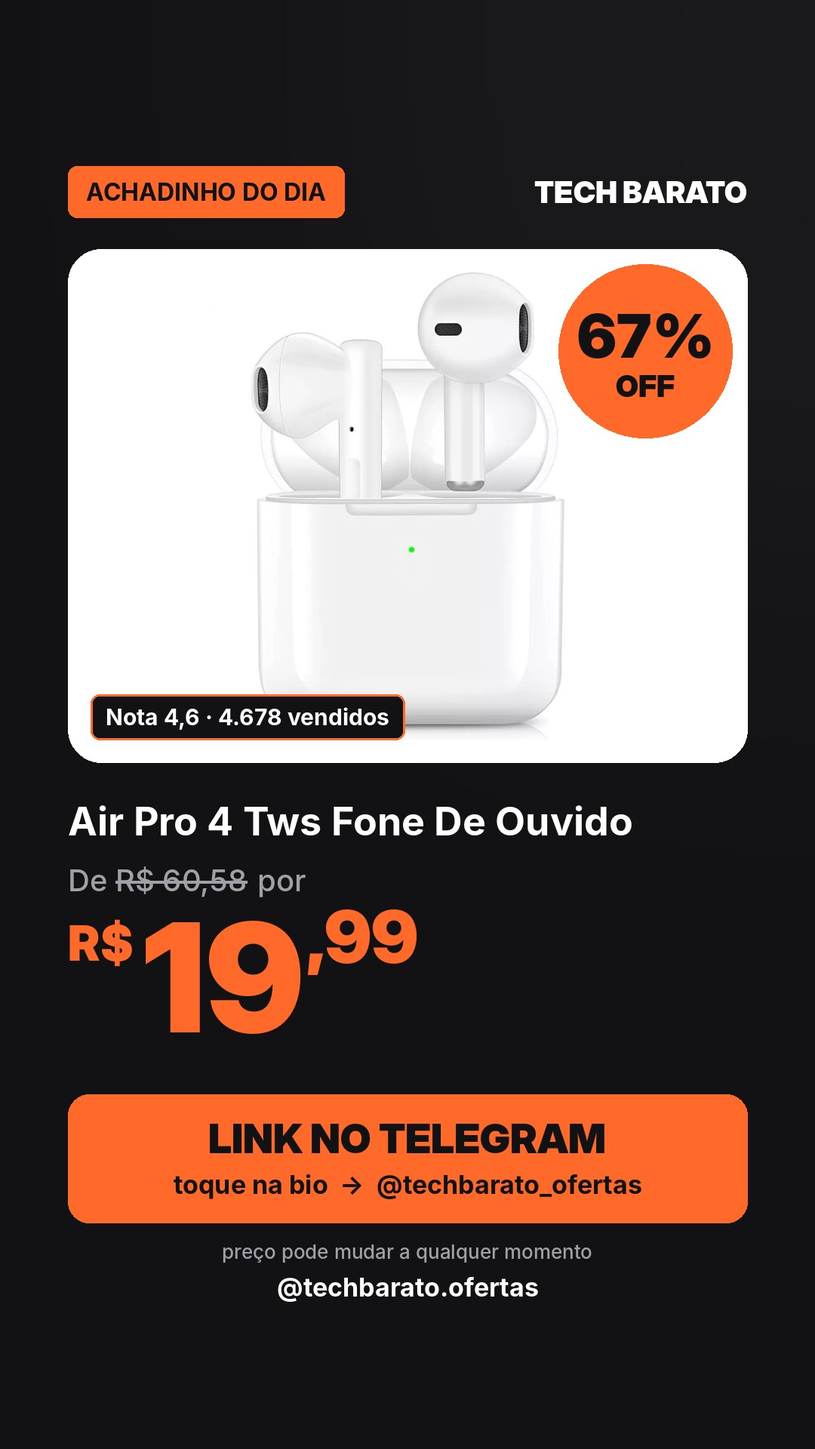
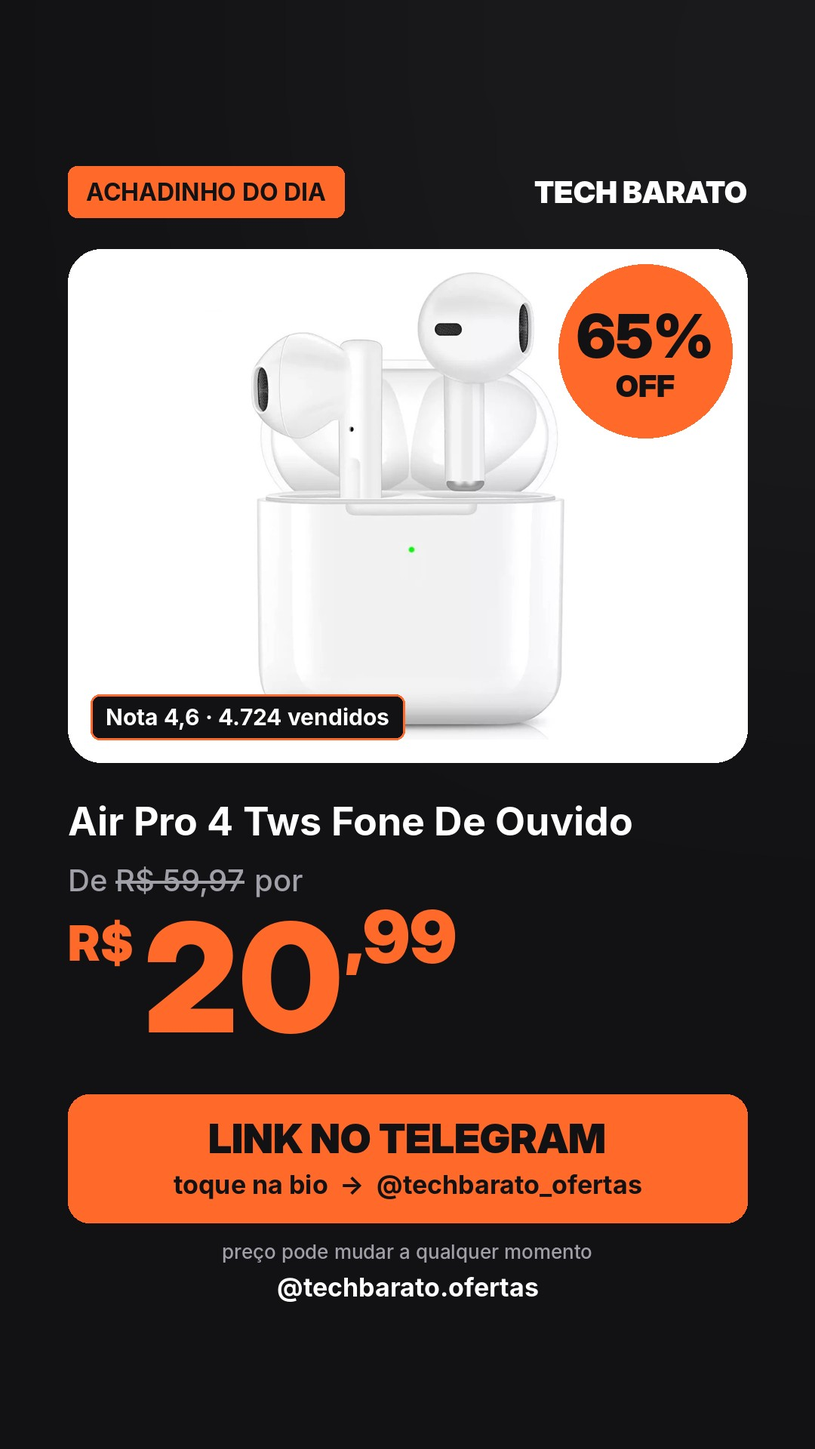
ofertas 2026-11-21_0047

Changed region(s): [[0.1833, 0.5938, 0.5806, 0.7188], [0.7028, 0.2188, 0.7944, 0.25], [0.3056, 0.4688, 0.3361, 0.5]]

diff --git a/docs/index.html b/docs/index.html
@@ -27,12 +27,12 @@ main{max-width:1100px;margin:auto;padding:8px 16px 40px;display:grid;grid-templa
 footer{text-align:center;color:var(--sub);font-size:12px;padding:0 16px 30px}
 </style></head><body>
 <header><h1>Tech Barato BR <span>●</span></h1>
-<p class="sub">Ofertas da Shopee escolhidas a dedo · atualizado em 20/11/2026 às 16:02</p>
+<p class="sub">Ofertas da Shopee escolhidas a dedo · atualizado em 20/11/2026 às 21:47</p>
 <a class="canal" href="https://t.me/techbarato_ofertas" target="_blank" rel="noopener">📢 Entrar no canal de ofertas</a><div class="filtros" id="f"></div></header>
 <main id="g"></main>
 <footer>Como afiliado da Shopee, posso receber comissão pelas compras feitas pelos links, sem custo extra para você. Preços e estoque podem mudar.</footer>
 <script>
-const D=[{"nome": "Relógio Smartwatch Original X9 Pro Série 45mm, GPS, NFC, Monitor de Pressão Arterial – São Paulo, Estoque Disponível", "preco": 69.77, "preco_original": 199.34, "desconto": 65, "imagem": "https://cf.shopee.com.br/file/sg-11134201-7rdw5-ly4sik99nn6wf4", "nota": 4.8, "vendas": 1171, "link": "https://s.shopee.com.br/4B1fr8o8be", "categoria": "smartwatch"}, {"nome": "Carregador Portátil Power Bank Turbo 20000mAh 22.5W Premium iPhone Samsung Xiaomi Com Indução", "preco": 79.99, "preco_original": 249.97, "desconto": 68, "imagem": "https://cf.shopee.com.br/file/br-11134207-820m0-mvqgs1eh60ardd", "nota": 4.9, "vendas": 1700, "link": "https://s.shopee.com.br/9pg2bYBNXZ", "categoria": "carregador turbo"}, {"nome": "HQAi H4 Tws Fones De Ouvido Bluetooth Sem Fio 5.3 Para Jogos Esportivos Com Redução De Ruído", "preco": 16.97, "preco_original": 54.74, "desconto": 69, "imagem": "https://cf.shopee.com.br/file/br-11134207-81ztc-mj51ligzptdtc0", "nota": 4.6, "vendas": 3465, "link": "https://s.shopee.com.br/2VtRs4PgVR", "categoria": "fone bluetooth"}, {"nome": "Novo Oxímetro de Pulso OLED de Dedo, Monitor Portátil de Saturação de Oxigênio, Presente de Natal.", "preco": 17.99, "preco_original": 59.97, "desconto": 70, "imagem": "https://cf.shopee.com.br/file/sg-11134201-8258k-mev8f7fai51i72", "nota": 4.8, "vendas": 170, "link": "https://s.shopee.com.br/906utLT5V8", "categoria": "monitor portatil"}, {"nome": "Fone Bluetooth OWS Sem Fio 5.3 Open Ear Confortável para Academia Caminhada e Uso Diário", "preco": 22.99, "preco_original": 99.96, "desconto": 77, "imagem": "https://cf.shopee.com.br/file/sg-11134201-824io-mpi4ekalszkbc1", "nota": 4.5, "vendas": 3661, "link": "https://s.shopee.com.br/9AQL5eAViF", "categoria": "fone bluetooth"}, {"nome": "Carregador Turbo 50W Carregador Rápido Super Rápido Acompanha cabo USB C", "preco": 18.88, "preco_original": 145.23, "desconto": 87, "imagem": "https://cf.shopee.com.br/file/br-11134207-7r98o-lzox24bojuwxc5", "nota": 4.8, "vendas": 2311, "link": "https://s.shopee.com.br/AKcITmosmw", "categoria": "carregador turbo"}, {"nome": "Relogio Smartwatch Feminino Masculino  Series 10 Para Android ios Faz Recebe Chamada", "preco": 45.99, "preco_original": 199.96, "desconto": 77, "imagem": "https://cf.shopee.com.br/file/br-11134207-81ztc-mk9cs8cko8ap5e", "nota": 4.8, "vendas": 1346, "link": "https://s.shopee.com.br/70Lq6bQXse", "categoria": "smartwatch"}, {"nome": "Fone de Ouvido Sem Fio  PRO5 airpods Com Cancelamento De Ruído Bluetooth Pop-Up para iOS e Android", "preco": 42.98, "preco_original": 238.78, "desconto": 82, "imagem": "https://cf.shopee.com.br/file/br-11134207-7r98o-m712dqkqe0xc50", "nota": 4.7, "vendas": 5852, "link": "https://s.shopee.com.br/4LL4vhJ6B8", "categoria": "fone bluetooth"}, {"nome": "Carregador Para iPhone Fonte + Cabo 20w PD Turbo Rapido Tipo C Lightning", "preco": 9.49, "preco_original": 86.27, "desconto": 89, "imagem": "https://cf.shopee.com.br/file/br-11134207-7r98o-lsvdp1mfzd44da", "nota": 4.8, "vendas": 2907, "link": "https://s.shopee.com.br/8fU45ekvzN", "categoria": "carregador turbo"}, {"nome": "Teclado Mecânico Recarregável Interruptores Testador Chaveiros Alto-Falante Amostra Sapo", "preco": 19.4, "preco_original": 57.06, "desconto": 66, "imagem": "https://cf.shopee.com.br/file/br-11134207-81ztc-mj3vpmp8hc76ae", "nota": 4.9, "vendas": 257, "link": "https://s.shopee.com.br/60TITEbw1D", "categoria": "teclado mecanico"}, {"nome": "Mouse Gamer Wireless com Conexão 2.4GHz Estável", "preco": 19.88, "preco_original": 60.24, "desconto": 67, "imagem": "https://cf.shopee.com.br/file/br-11134207-81ztc-mkb1itv9v5s1c9", "nota": 4.8, "vendas": 538, "link": "https://s.shopee.com.br/5q9sGvKYey", "categoria": "mouse gamer"}, {"nome": "Fone De Ouvido NOVO Ruído Cancelando Earbuds Bluetooth Sem Fio HiFi Stereo Com Carregamento De Visor Digital", "preco": 19.99, "preco_original": 60.58, "desconto": 67, "imagem": "https://cf.shopee.com.br/file/sg-11134201-8224o-mhjfql4zsydg80", "nota": 4.6, "vendas": 5281, "link": "https://s.shopee.com.br/1gKJJGNZ3M", "categoria": "fone bluetooth"}, {"nome": "Mouse Gamer Wireless com Conexão 2.4GHz Estável", "preco": 19.88, "preco_original": 60.24, "desconto": 67, "imagem": "https://cf.shopee.com.br/file/br-11134207-81ztc-mkb1itv9v5s1c9", "nota": 4.8, "vendas": 1255, "link": "https://s.shopee.com.br/9zzQVYB4Q4", "categoria": "mouse gamer"}, {"nome": "T900 Ultra Smartwatch Relógio Inteligente Prova Bluetooth Monitoramento De Saúde Exercício Contagem NFC", "preco": 49.8, "preco_original": 150.91, "desconto": 67, "imagem": "https://cf.shopee.com.br/file/br-11134207-81z1k-mfffhm1n60p1be", "nota": 4.7, "vendas": 1465, "link": "https://s.shopee.com.br/9KjjiJvwNN", "categoria": "smartwatch"}, {"nome": "Fone de Ouvido entrada lightning para Iphone Microfone Bluetooth", "preco": 9.99, "preco_original": 30.27, "desconto": 67, "imagem": "https://cf.shopee.com.br/file/sg-11134201-7rbkc-lpcgfnwj651k1e", "nota": 4.7, "vendas": 6917, "link": "https://s.shopee.com.br/9KjjiJePVN", "categoria": "fone bluetooth"}, {"nome": "Headset Gamer TGT Diver V2, Rainbow, Drivers 40mm, Preto, TGT-DVR-RGB02", "preco": 55.9, "preco_original": 174.69, "desconto": 68, "imagem": "https://cf.shopee.com.br/file/br-11134207-81z1k-mf1f34sgcnwkd3", "nota": 4.9, "vendas": 1215, "link": "https://s.shopee.com.br/2gCpMtRBsu", "categoria": "headset gamer"}, {"nome": "Smartwatch D20 relógio Colocar foto com tela hd y68 bluetooth com lembrete chamada monitor de frequência", "preco": 21.98, "preco_original": 70.9, "desconto": 69, "imagem": "https://cf.shopee.com.br/file/sg-11134201-7rbk0-lqqgjmiq5mao68", "nota": 4.5, "vendas": 1266, "link": "https://s.shopee.com.br/9pfzu3iAhW", "categoria": "smartwatch"}, {"nome": "Teclado Gamer/ Escritório Com Fio RGB LED Iluminado  Com 68 Teclados Mecânicos", "preco": 88.88, "preco_original": 296.27, "desconto": 70, "imagem": "https://cf.shopee.com.br/file/br-11134207-7r98o-mcmbazbekcn5d9", "nota": 4.8, "vendas": 357, "link": "https://s.shopee.com.br/5fqQwOgVHz", "categoria": "teclado mecanico"}, {"nome": "Case HD Externo USB 3.0 para HD/SSD 2.5 Gaveta Externa Transparente com Cabo USB Alta Velocidade Compatível Notebook PC", "preco": 21.45, "preco_original": 69.19, "desconto": 69, "imagem": "https://cf.shopee.com.br/file/sg-11134201-8258b-mqnq7bykcyz2f2", "nota": 4.9, "vendas": 649, "link": "https://s.shopee.com.br/9AQIdecIWt", "categoria": "ssd"}, {"nome": "Teclado Gamer/ Escritório Com Fio RGB LED Iluminado  Com 68 Teclados Mecânicos", "preco": 88.88, "preco_original": 296.27, "desconto": 70, "imagem": "https://cf.shopee.com.br/file/br-11134207-7r98o-mcmbtqmuebcx87", "nota": 4.8, "vendas": 502, "link": "https://s.shopee.com.br/906sRLLKlZ", "categoria": "teclado mecanico"}, {"nome": "2026 T800 Ultra 3 MAX Mais Recente Smartwatch Relógio Inteligente NFC Série 10 2.19Polegadas Sem Fio", "preco": 39.8, "preco_original": 147.41, "desconto": 73, "imagem": "https://cf.shopee.com.br/file/br-11134207-81z1k-mhq4f2lhz40397", "nota": 4.7, "vendas": 1755, "link": "https://s.shopee.com.br/8pnSF28ljd", "categoria": "smartwatch"}, {"nome": "Arzopa Z1C Cinza-Monitor Portátil Com Suporte 100 % sRGB De 16.1 \" , 1080P FHD Tela De Extensão De USB C HDMI Para PC", "preco": 528.99, "preco_original": 1763.3, "desconto": 70, "imagem": "https://cf.shopee.com.br/file/cn-11134207-820l4-mvb9zjv0cyyqec", "nota": 5.0, "vendas": 270, "link": "https://s.shopee.com.br/30peYyMXsT", "categoria": "monitor portatil"}, {"nome": "Macaron Teclado Fidget Chaveiro ASMR Clicky Interruptor Mecânico Brinquedo Alívio Do Estresse Pingente Presente", "preco": 8.8, "preco_original": 30.34, "desconto": 71, "imagem": "https://cf.shopee.com.br/file/sg-11134201-8262a-mlx5pxmaeio4eb", "nota": 4.9, "vendas": 476, "link": "https://s.shopee.com.br/7fbU7XrEkT", "categoria": "teclado mecanico"}, {"nome": "1200Mbps Repetidor Wifi Sem Fio 2.4G Amplificador De Sinal Extensor Roteador Booster Network", "preco": 49.97, "preco_original": 199.88, "desconto": 75, "imagem": "https://cf.shopee.com.br/file/br-11134207-820mf-mnkugr2ku5ms16", "nota": 4.7, "vendas": 289, "link": "https://s.shopee.com.br/70LnKJcWHZ", "categoria": "roteador wifi"}, {"nome": "Fone De Ouvido Sem Fio M10 TWS Bluetooth 5.3 display Led Touch", "preco": 18.99, "preco_original": 70.33, "desconto": 73, "imagem": "https://cf.shopee.com.br/file/sg-11134201-8258z-mr0fi8bhfthid6", "nota": 4.8, "vendas": 8349, "link": "https://s.shopee.com.br/3VlunBYgzJ", "categoria": "fone bluetooth"}, {"nome": "KIT Teclado 100% mecânico Punk Esports + mouse para jogos Um item obrigatório para os jogadores -H7", "preco": 52.49, "preco_original": 201.88, "desconto": 74, "imagem": "https://cf.shopee.com.br/file/br-11134207-820m5-mu8ogr0lpfk218", "nota": 4.8, "vendas": 214, "link": "https://s.shopee.com.br/1LhQDCTk0I", "categoria": "teclado mecanico"}, {"nome": "Carregador rápido de 120W com 6A USB C cabo 1M para Mi Turbo Charge Turbo Power Cabo USB + Cabo Tipo C", "preco": 15.89, "preco_original": 61.12, "desconto": 74, "imagem": "https://cf.shopee.com.br/file/sg-11134201-823qk-moi4apd18efh61", "nota": 4.6, "vendas": 3532, "link": "https://s.shopee.com.br/W8JDfBKNI", "categoria": "carregador turbo"}, {"nome": "Câmera Segurança Lâmpada Wifi Full HD Sem Fio 360 Icsee/Yoosee Visão Noturna 8177 EKS", "preco": 58.99, "preco_original": null, "desconto": 0, "imagem": "https://cf.shopee.com.br/file/sg-11134201-8227r-mhhsrii405j733", "nota": 4.9, "vendas": 4406, "link": "https://s.shopee.com.br/3VluJvtBBx", "categoria": "camera wifi"}, {"nome": "Kit Carregador 67W Turbo + Cabo Tipo-C Carga Rápida Universal Xiaomi Redmi Note E Poco X7 Android", "preco": 29.51, "preco_original": null, "desconto": 0, "imagem": "https://cf.shopee.com.br/file/sg-11134201-8258n-mr8vmek85csha1", "nota": 4.5, "vendas": 9310, "link": "https://s.shopee.com.br/2BGWjTgaWK", "categoria": "carregador turbo"}, {"nome": "Senbenbao X55 Fones De Ouvido TWS Sono Sem Fio Bluetooth Display Led Alta Fidelidade Estéreo Cancelamento Ruído À Prova", "preco": 19.29, "preco_original": null, "desconto": 0, "imagem": "https://cf.shopee.com.br/file/sg-11134201-823ob-mp7wv1fcnx8rc4", "nota": 4.8, "vendas": 19272, "link": "https://s.shopee.com.br/20x6XAPYUt", "categoria": "fone bluetooth"}, {"nome": "Teclado Mecânico Gamer Compacto 60% 63 Teclas Switch Blue Rainbow RGB Anti-Ghosting USB", "preco": 99.88, "preco_original": 369.93, "desconto": 73, "imagem": "https://cf.shopee.com.br/file/br-11134207-820lv-mr1pu215296u72", "nota": 4.9, "vendas": 306, "link": "https://s.shopee.com.br/1W0pDmATzl", "categoria": "teclado mecanico"}, {"nome": "HUAWEI WiFi AX2S | Roteador | WS7000 V2 |  Dual Band | 4 Antenas | 5 GHz Wi-Fi 6", "preco": 129.0, "preco_original": 496.15, "desconto": 74, "imagem": "https://cf.shopee.com.br/file/br-11134207-81z1k-me9rity3qqkg1d", "nota": 5.0, "vendas": 1856, "link": "https://s.shopee.com.br/9fMWwmNNjs", "categoria": "roteador wifi"}, {"nome": "Mouse Gamer Jogos Laser 3600dpi Usb Com Fio Led 7 Botões Iluminado", "preco": 16.88, "preco_original": 99.29, "desconto": 83, "imagem": "https://cf.shopee.com.br/file/br-11134207-7r98o-lwoh850dygu797", "nota": 4.8, "vendas": 596, "link": "https://s.shopee.com.br/9AQGLr8AS2", "categoria": "mouse gamer"}, {"nome": "Medidor de SpO2 Portátil para Dedo com Tela LED, Alta Precisão para Monitoramento de Saúde em Casa e Viagem", "preco": 18.89, "preco_original": 42.93, "desconto": 56, "imagem": "https://cf.shopee.com.br/file/sg-11134201-823qv-mooxmpkz30gb81", "nota": 4.7, "vendas": 81, "link": "https://s.shopee.com.br/9V36OON8Xa", "categoria": "monitor portatil"}, {"nome": "Fone Headset Gamer RGB PRO Iluminação LED, Microfone Ajustável, Ideal para Jogos Online", "preco": 79.98, "preco_original": 186.0, "desconto": 57, "imagem": "https://cf.shopee.com.br/file/br-11134207-81z1k-mfczkewm85j991", "nota": 4.9, "vendas": 531, "link": "https://s.shopee.com.br/5Au7EQLtgK", "categoria": "headset gamer"}, {"nome": "Bluetooth Sem fio Fone de ouvido Ergonômico TWS Suporte Orelha Pendurada Anti-queda", "preco": 24.3, "preco_original": 81.0, "desconto": 70, "imagem": "https://cf.shopee.com.br/file/sg-11134201-7rdx3-mch5g12mgnkkac", "nota": 4.7, "vendas": 3047, "link": "https://s.shopee.com.br/50ah27509J", "categoria": "fone bluetooth"}, {"nome": "Smartwatch D20 - Relógio Inteligente y68 Esportivo Bluetooth Android/iOS - Com foto Na Tela", "preco": 19.99, "preco_original": null, "desconto": 0, "imagem": "https://cf.shopee.com.br/file/sg-11134201-7rffv-m43cb4hjqxjrce", "nota": 4.6, "vendas": 4726, "link": "https://s.shopee.com.br/5LDWzOAnYT", "categoria": "smartwatch"}, {"nome": "Carregador iPhone Turbo Tipo-C 20W + Cabo Lightining para IPhone Carga rápida", "preco": 15.99, "preco_original": 49.97, "desconto": 68, "imagem": "https://cf.shopee.com.br/file/sg-11134201-7rbkw-lpcg9rytbas79a", "nota": 4.8, "vendas": 10578, "link": "https://s.shopee.com.br/6q2Km8rXqG", "categoria": "carregador turbo"}, {"nome": "Fone de Ouvido Sem Fio Bluetooth com Condução Óssea/Compacto e Leve/Resistente a Água/Tipo-C", "preco": 31.9, "preco_original": 110.0, "desconto": 71, "imagem": "https://cf.shopee.com.br/file/br-11134211-820ln-mseaww44b5dz4b", "nota": 4.6, "vendas": 3367, "link": "https://s.shopee.com.br/8VAYlCU0uN", "categoria": "fone bluetooth"}, {"nome": "Câmera Vigilância WiFi 4MP Dupla Lente Detecção Inteligente Áudio 2 Vias", "preco": 125.39, "preco_original": 298.55, "desconto": 58, "imagem": "https://cf.shopee.com.br/file/sg-11134201-822zw-mi0cmfoz1p1k70", "nota": 4.9, "vendas": 1412, "link": "https://s.shopee.com.br/7pur5nBt47", "categoria": "camera wifi"}, {"nome": "50M 1080P Sem Fio HDMI Extensor Transmissor De Vídeo Receptor 1TX A 1RX Display Para PS4 Câmera Portátil PC TV Monitor P", "preco": 186.99, "preco_original": 519.42, "desconto": 64, "imagem": "https://cf.shopee.com.br/file/sg-11134201-825ah-mqh2txikvpqme5", "nota": 4.9, "vendas": 163, "link": "https://s.shopee.com.br/6L63J20Tob", "categoria": "monitor portatil"}, {"nome": "Fone De Ouvido Inpods 13 Bluetooth Sem Fio Com Microfone Fones esportivos Adequado Branco", "preco": 19.98, "preco_original": 68.9, "desconto": 71, "imagem": "https://cf.shopee.com.br/file/sg-11134201-825bb-mt7fxycgurra13", "nota": 4.7, "vendas": 7637, "link": "https://s.shopee.com.br/9pfvTSZTW4", "categoria": "fone bluetooth"}, {"nome": "JL PROTEC 4K 8MP Câmera de Segurança 2 Lentes Com Audio e Microfone Câmera 355 Graus Wifi", "preco": 176.88, "preco_original": 402.0, "desconto": 56, "imagem": "https://cf.shopee.com.br/file/br-11134201-81ztc-mj6htjflukg333", "nota": 4.9, "vendas": 1524, "link": "https://s.shopee.com.br/2VtKBa19JA", "categoria": "camera wifi"}, {"nome": "Suporte Gamer Porta Controle Videogame Para Ps4 Xbox Ps5 Fone de Ouvido Headset", "preco": 9.89, "preco_original": 24.73, "desconto": 60, "imagem": "https://cf.shopee.com.br/file/br-11134207-820ll-mlveq5qwu39je0", "nota": 4.5, "vendas": 959, "link": "https://s.shopee.com.br/3LSRB6gNUx", "categoria": "headset gamer"}, {"nome": "Fone De Ouvido Bluetooth Orelha Gatinho Infantil Led Sem Fio", "preco": 27.5, "preco_original": 98.21, "desconto": 72, "imagem": "https://cf.shopee.com.br/file/sg-11134201-820nh-mnq01ce18zr689", "nota": 4.9, "vendas": 5819, "link": "https://s.shopee.com.br/W8Fntdxsf", "categoria": "fone bluetooth"}, {"nome": "Smartwatch 7 Em 1 Alças 49mm Full Touch Screen Sport", "preco": 59.0, "preco_original": 203.45, "desconto": 71, "imagem": "https://cf.shopee.com.br/file/sg-11134201-825zv-ml16vfpvksg5ae", "nota": 4.8, "vendas": 1126, "link": "https://s.shopee.com.br/20x3Czjwhw", "categoria": "smartwatch"}, {"nome": "Mini Teclado Mecânico Anti-Ansiedade em Chaveiro com 4 Teclas Clicáveis – Som Tátil Relaxante", "preco": 11.99, "preco_original": 44.41, "desconto": 73, "imagem": "https://cf.shopee.com.br/file/br-11134207-820m0-mpz8z4g03vuo16", "nota": 4.8, "vendas": 324, "link": "https://s.shopee.com.br/906nXr1hKm", "categoria": "teclado mecanico"}, {"nome": "Fones de Ouvido Bluetooth 5.4 X55 com Visor LED, Hi-Fi Estéreo, Cancelamento de Ruído, Design à Prova d’Água para Graves", "preco": 23.98, "preco_original": 88.81, "desconto": 73, "imagem": "https://cf.shopee.com.br/file/sg-11134201-825a9-mu36trol6akg59", "nota": 4.7, "vendas": 3069, "link": "https://s.shopee.com.br/40i7af7bOE", "categoria": "fone bluetooth"}, {"nome": "Case Gaveta HD SSD 2.5 Sata III USB 3.0 Transparente Externo 6Gbps PC Notebook PS4 Kit 2  su", "preco": 30.99, "preco_original": 99.97, "desconto": 69, "imagem": "https://cf.shopee.com.br/file/sg-11134201-822x7-mhwbric3x4hw69", "nota": 4.9, "vendas": 376, "link": "https://s.shopee.com.br/8Kr65RWREx", "categoria": "ssd"}, {"nome": "Teclado Gamer Semi-mecânico Rgb Anti-ghosting", "preco": 38.88, "preco_original": 149.54, "desconto": 74, "imagem": "https://cf.shopee.com.br/file/br-11134207-7r98o-mcw6gui5vk1e01", "nota": 4.8, "vendas": 962, "link": "https://s.shopee.com.br/8AXft8FxIb", "categoria": "teclado mecanico"}, {"nome": "Fone Pro Sem Fio Som HiFi 8D Pop-Up Automático Toque Inteligente Bateria 5–7h Bluetooth Universal", "preco": 17.99, "preco_original": 69.19, "desconto": 74, "imagem": "https://cf.shopee.com.br/file/sg-11134201-8261z-ml25b72c1ds21d", "nota": 4.8, "vendas": 6974, "link": "https://s.shopee.com.br/gRexLQlr7", "categoria": "fone bluetooth"}, {"nome": "15,6\" portátil Monitor de FHD 1920*1080P IPS 300Nits HDR para jogos compatível com PC/PS3/4/5/Switch/Xbox/Laptop/Celular", "preco": 382.35, "preco_original": 1006.18, "desconto": 62, "imagem": "https://cf.shopee.com.br/file/br-11134207-820lj-mt9fzhlxl2bm30", "nota": 4.8, "vendas": 158, "link": "https://s.shopee.com.br/8AXfXqlb8X", "categoria": "monitor portatil"}, {"nome": "Smartwatch MINI 38MM PRO Com monitor De Frequência Cardíaca Do Computador São Paulo pronta entrega", "preco": 53.99, "preco_original": 199.96, "desconto": 73, "imagem": "https://cf.shopee.com.br/file/br-11134207-81z1k-mg4sqr0e5nggcd", "nota": 4.8, "vendas": 1671, "link": "https://s.shopee.com.br/7fbOwvVplX", "categoria": "smartwatch"}, {"nome": "Headset Gamer Camuflado Com Fio Estéreo Microfone USB P2 50mm Para PC PS4 Xbox-Onistek", "preco": 74.99, "preco_original": 288.42, "desconto": 74, "imagem": "https://cf.shopee.com.br/file/br-11134207-820m3-mrvxqm20m9z828", "nota": 4.9, "vendas": 667, "link": "https://s.shopee.com.br/3LSPmxUfAm", "categoria": "headset gamer"}, {"nome": "Câmera Externa Ip a Prova D'água 4mp wifi ptz com Infravermelho lente dupla Bivolt 110/220V WiFi 360 -G1", "preco": 129.99, "preco_original": 406.22, "desconto": 68, "imagem": "https://cf.shopee.com.br/file/br-11134207-820lk-mtev0n6q7k75f5", "nota": 4.9, "vendas": 302, "link": "https://s.shopee.com.br/Lonrjvy7L", "categoria": "camera wifi"}, {"nome": "Headset Gamer 7.1 Surround Rgb Delta-f7140 Com Microfone Para Pc E Console", "preco": 54.78, "preco_original": 210.69, "desconto": 74, "imagem": "https://cf.shopee.com.br/file/br-11134207-820lk-moa3sgm6molj9c", "nota": 4.9, "vendas": 745, "link": "https://s.shopee.com.br/9KjcaHAREa", "categoria": "headset gamer"}, {"nome": "Fone de Ouvido Sem Fio Airpods PRO 3 Com Cancelamento De Ruído Bluetooth Pop-Up para iOS e Android", "preco": 42.98, "preco_original": 171.92, "desconto": 75, "imagem": "https://cf.shopee.com.br/file/sg-11134201-7rd3v-m70zchxbcirf93", "nota": 4.7, "vendas": 5183, "link": "https://s.shopee.com.br/7KyYCb0WPt", "categoria": "fone bluetooth"}, {"nome": "Cabo Carregador USB Typo C 1 Metro Para Android Galaxy Xiomi Moto G Carregamento Turbo Reforçado", "preco": 10.0, "preco_original": 25.0, "desconto": 60, "imagem": "https://cf.shopee.com.br/file/br-11134201-820lh-mqy2kshjlo1x20", "nota": 4.8, "vendas": 1991, "link": "https://s.shopee.com.br/AAIjI8w0MM", "categoria": "carregador turbo"}, {"nome": "Repetidor Wifi 1200m 6/4 Antenas 3 in 1 functios 2.4g Roteador Amplificador De Sinal e Modem 300MBPS", "preco": 46.98, "preco_original": 120.46, "desconto": 61, "imagem": "https://cf.shopee.com.br/file/br-11134207-820m2-mtz23drmeh3613", "nota": 4.8, "vendas": 774, "link": "https://s.shopee.com.br/9V32UuhM9e", "categoria": "roteador wifi"}, {"nome": "Case Gaveta HD SSD 2.5 Sata III USB 3.0 Transparente Externo 6Gbps PC Notebook PS4 Kit 2  jehnny", "preco": 30.99, "preco_original": 99.97, "desconto": 69, "imagem": "https://cf.shopee.com.br/file/sg-11134201-822x9-mhwbs2tvuo0443", "nota": 4.9, "vendas": 657, "link": "https://s.shopee.com.br/9AQC6IQxU7", "categoria": "ssd"}];
+const D=[{"nome": "Carregador Turbo 20w Compatível iPhone + Cabo Lightning", "preco": 26.9, "preco_original": null, "desconto": 0, "imagem": "https://cf.shopee.com.br/file/br-11134201-820lw-mqx4vub9getg4c", "nota": 4.8, "vendas": 6016, "link": "https://s.shopee.com.br/906vziWiGu", "categoria": "carregador turbo"}, {"nome": "Mouse Gamer 1200dpi Com Fio Usb Led Rgb Profissional Para Jogos Pc", "preco": 13.9, "preco_original": 39.71, "desconto": 65, "imagem": "https://cf.shopee.com.br/file/br-11134207-820lu-mt3zx01j79qff3", "nota": 4.9, "vendas": 1069, "link": "https://s.shopee.com.br/6AmkcVTt5r", "categoria": "mouse gamer"}, {"nome": "Air Pro 4 Tws Fone De Ouvido Sem Fio Bluetooth 5.1Mini Fones Esportivos Para Android / Ios iphone", "preco": 20.99, "preco_original": 59.97, "desconto": 65, "imagem": "https://cf.shopee.com.br/file/sg-11134201-7rd3v-lwp2d1s7sky0f0", "nota": 4.6, "vendas": 4724, "link": "https://s.shopee.com.br/1gKLGETpfM", "categoria": "fone bluetooth"}, {"nome": "Relógio Smartwatch Original X9 Pro Série 45mm, GPS, NFC, Monitor de Pressão Arterial – São Paulo, Estoque Disponível", "preco": 69.77, "preco_original": 199.34, "desconto": 65, "imagem": "https://cf.shopee.com.br/file/sg-11134201-7rdw5-ly4sik99nn6wf4", "nota": 4.8, "vendas": 1171, "link": "https://s.shopee.com.br/4B1fr8o8be", "categoria": "smartwatch"}, {"nome": "Carregador Portátil Power Bank Turbo 20000mAh 22.5W Premium iPhone Samsung Xiaomi Com Indução", "preco": 79.99, "preco_original": 249.97, "desconto": 68, "imagem": "https://cf.shopee.com.br/file/br-11134207-820m0-mvqgs1eh60ardd", "nota": 4.9, "vendas": 1700, "link": "https://s.shopee.com.br/9pg2bYBNXZ", "categoria": "carregador turbo"}, {"nome": "HQAi H4 Tws Fones De Ouvido Bluetooth Sem Fio 5.3 Para Jogos Esportivos Com Redução De Ruído", "preco": 16.97, "preco_original": 54.74, "desconto": 69, "imagem": "https://cf.shopee.com.br/file/br-11134207-81ztc-mj51ligzptdtc0", "nota": 4.6, "vendas": 3465, "link": "https://s.shopee.com.br/2VtRs4PgVR", "categoria": "fone bluetooth"}, {"nome": "Novo Oxímetro de Pulso OLED de Dedo, Monitor Portátil de Saturação de Oxigênio, Presente de Natal.", "preco": 17.99, "preco_original": 59.97, "desconto": 70, "imagem": "https://cf.shopee.com.br/file/sg-11134201-8258k-mev8f7fai51i72", "nota": 4.8, "vendas": 170, "link": "https://s.shopee.com.br/906utLT5V8", "categoria": "monitor portatil"}, {"nome": "Fone Bluetooth OWS Sem Fio 5.3 Open Ear Confortável para Academia Caminhada e Uso Diário", "preco": 22.99, "preco_original": 99.96, "desconto": 77, "imagem": "https://cf.shopee.com.br/file/sg-11134201-824io-mpi4ekalszkbc1", "nota": 4.5, "vendas": 3661, "link": "https://s.shopee.com.br/9AQL5eAViF", "categoria": "fone bluetooth"}, {"nome": "Carregador Turbo 50W Carregador Rápido Super Rápido Acompanha cabo USB C", "preco": 18.88, "preco_original": 145.23, "desconto": 87, "imagem": "https://cf.shopee.com.br/file/br-11134207-7r98o-lzox24bojuwxc5", "nota": 4.8, "vendas": 2311, "link": "https://s.shopee.com.br/AKcITmosmw", "categoria": "carregador turbo"}, {"nome": "Relogio Smartwatch Feminino Masculino  Series 10 Para Android ios Faz Recebe Chamada", "preco": 45.99, "preco_original": 199.96, "desconto": 77, "imagem": "https://cf.shopee.com.br/file/br-11134207-81ztc-mk9cs8cko8ap5e", "nota": 4.8, "vendas": 1346, "link": "https://s.shopee.com.br/70Lq6bQXse", "categoria": "smartwatch"}, {"nome": "Fone de Ouvido Sem Fio  PRO5 airpods Com Cancelamento De Ruído Bluetooth Pop-Up para iOS e Android", "preco": 42.98, "preco_original": 238.78, "desconto": 82, "imagem": "https://cf.shopee.com.br/file/br-11134207-7r98o-m712dqkqe0xc50", "nota": 4.7, "vendas": 5852, "link": "https://s.shopee.com.br/4LL4vhJ6B8", "categoria": "fone bluetooth"}, {"nome": "Carregador Para iPhone Fonte + Cabo 20w PD Turbo Rapido Tipo C Lightning", "preco": 9.49, "preco_original": 86.27, "desconto": 89, "imagem": "https://cf.shopee.com.br/file/br-11134207-7r98o-lsvdp1mfzd44da", "nota": 4.8, "vendas": 2907, "link": "https://s.shopee.com.br/8fU45ekvzN", "categoria": "carregador turbo"}, {"nome": "Teclado Mecânico Recarregável Interruptores Testador Chaveiros Alto-Falante Amostra Sapo", "preco": 19.4, "preco_original": 57.06, "desconto": 66, "imagem": "https://cf.shopee.com.br/file/br-11134207-81ztc-mj3vpmp8hc76ae", "nota": 4.9, "vendas": 257, "link": "https://s.shopee.com.br/60TITEbw1D", "categoria": "teclado mecanico"}, {"nome": "Mouse Gamer Wireless com Conexão 2.4GHz Estável", "preco": 19.88, "preco_original": 60.24, "desconto": 67, "imagem": "https://cf.shopee.com.br/file/br-11134207-81ztc-mkb1itv9v5s1c9", "nota": 4.8, "vendas": 538, "link": "https://s.shopee.com.br/5q9sGvKYey", "categoria": "mouse gamer"}, {"nome": "Fone De Ouvido NOVO Ruído Cancelando Earbuds Bluetooth Sem Fio HiFi Stereo Com Carregamento De Visor Digital", "preco": 19.99, "preco_original": 60.58, "desconto": 67, "imagem": "https://cf.shopee.com.br/file/sg-11134201-8224o-mhjfql4zsydg80", "nota": 4.6, "vendas": 5281, "link": "https://s.shopee.com.br/1gKJJGNZ3M", "categoria": "fone bluetooth"}, {"nome": "Mouse Gamer Wireless com Conexão 2.4GHz Estável", "preco": 19.88, "preco_original": 60.24, "desconto": 67, "imagem": "https://cf.shopee.com.br/file/br-11134207-81ztc-mkb1itv9v5s1c9", "nota": 4.8, "vendas": 1255, "link": "https://s.shopee.com.br/9zzQVYB4Q4", "categoria": "mouse gamer"}, {"nome": "T900 Ultra Smartwatch Relógio Inteligente Prova Bluetooth Monitoramento De Saúde Exercício Contagem NFC", "preco": 49.8, "preco_original": 150.91, "desconto": 67, "imagem": "https://cf.shopee.com.br/file/br-11134207-81z1k-mfffhm1n60p1be", "nota": 4.7, "vendas": 1465, "link": "https://s.shopee.com.br/9KjjiJvwNN", "categoria": "smartwatch"}, {"nome": "Fone de Ouvido entrada lightning para Iphone Microfone Bluetooth", "preco": 9.99, "preco_original": 30.27, "desconto": 67, "imagem": "https://cf.shopee.com.br/file/sg-11134201-7rbkc-lpcgfnwj651k1e", "nota": 4.7, "vendas": 6917, "link": "https://s.shopee.com.br/9KjjiJePVN", "categoria": "fone bluetooth"}, {"nome": "Headset Gamer TGT Diver V2, Rainbow, Drivers 40mm, Preto, TGT-DVR-RGB02", "preco": 55.9, "preco_original": 174.69, "desconto": 68, "imagem": "https://cf.shopee.com.br/file/br-11134207-81z1k-mf1f34sgcnwkd3", "nota": 4.9, "vendas": 1215, "link": "https://s.shopee.com.br/2gCpMtRBsu", "categoria": "headset gamer"}, {"nome": "Smartwatch D20 relógio Colocar foto com tela hd y68 bluetooth com lembrete chamada monitor de frequência", "preco": 21.98, "preco_original": 70.9, "desconto": 69, "imagem": "https://cf.shopee.com.br/file/sg-11134201-7rbk0-lqqgjmiq5mao68", "nota": 4.5, "vendas": 1266, "link": "https://s.shopee.com.br/9pfzu3iAhW", "categoria": "smartwatch"}, {"nome": "Teclado Gamer/ Escritório Com Fio RGB LED Iluminado  Com 68 Teclados Mecânicos", "preco": 88.88, "preco_original": 296.27, "desconto": 70, "imagem": "https://cf.shopee.com.br/file/br-11134207-7r98o-mcmbazbekcn5d9", "nota": 4.8, "vendas": 357, "link": "https://s.shopee.com.br/5fqQwOgVHz", "categoria": "teclado mecanico"}, {"nome": "Case HD Externo USB 3.0 para HD/SSD 2.5 Gaveta Externa Transparente com Cabo USB Alta Velocidade Compatível Notebook PC", "preco": 21.45, "preco_original": 69.19, "desconto": 69, "imagem": "https://cf.shopee.com.br/file/sg-11134201-8258b-mqnq7bykcyz2f2", "nota": 4.9, "vendas": 649, "link": "https://s.shopee.com.br/9AQIdecIWt", "categoria": "ssd"}, {"nome": "Teclado Gamer/ Escritório Com Fio RGB LED Iluminado  Com 68 Teclados Mecânicos", "preco": 88.88, "preco_original": 296.27, "desconto": 70, "imagem": "https://cf.shopee.com.br/file/br-11134207-7r98o-mcmbtqmuebcx87", "nota": 4.8, "vendas": 502, "link": "https://s.shopee.com.br/906sRLLKlZ", "categoria": "teclado mecanico"}, {"nome": "2026 T800 Ultra 3 MAX Mais Recente Smartwatch Relógio Inteligente NFC Série 10 2.19Polegadas Sem Fio", "preco": 39.8, "preco_original": 147.41, "desconto": 73, "imagem": "https://cf.shopee.com.br/file/br-11134207-81z1k-mhq4f2lhz40397", "nota": 4.7, "vendas": 1755, "link": "https://s.shopee.com.br/8pnSF28ljd", "categoria": "smartwatch"}, {"nome": "Arzopa Z1C Cinza-Monitor Portátil Com Suporte 100 % sRGB De 16.1 \" , 1080P FHD Tela De Extensão De USB C HDMI Para PC", "preco": 528.99, "preco_original": 1763.3, "desconto": 70, "imagem": "https://cf.shopee.com.br/file/cn-11134207-820l4-mvb9zjv0cyyqec", "nota": 5.0, "vendas": 270, "link": "https://s.shopee.com.br/30peYyMXsT", "categoria": "monitor portatil"}, {"nome": "Macaron Teclado Fidget Chaveiro ASMR Clicky Interruptor Mecânico Brinquedo Alívio Do Estresse Pingente Presente", "preco": 8.8, "preco_original": 30.34, "desconto": 71, "imagem": "https://cf.shopee.com.br/file/sg-11134201-8262a-mlx5pxmaeio4eb", "nota": 4.9, "vendas": 476, "link": "https://s.shopee.com.br/7fbU7XrEkT", "categoria": "teclado mecanico"}, {"nome": "1200Mbps Repetidor Wifi Sem Fio 2.4G Amplificador De Sinal Extensor Roteador Booster Network", "preco": 49.97, "preco_original": 199.88, "desconto": 75, "imagem": "https://cf.shopee.com.br/file/br-11134207-820mf-mnkugr2ku5ms16", "nota": 4.7, "vendas": 289, "link": "https://s.shopee.com.br/70LnKJcWHZ", "categoria": "roteador wifi"}, {"nome": "Fone De Ouvido Sem Fio M10 TWS Bluetooth 5.3 display Led Touch", "preco": 18.99, "preco_original": 70.33, "desconto": 73, "imagem": "https://cf.shopee.com.br/file/sg-11134201-8258z-mr0fi8bhfthid6", "nota": 4.8, "vendas": 8349, "link": "https://s.shopee.com.br/3VlunBYgzJ", "categoria": "fone bluetooth"}, {"nome": "KIT Teclado 100% mecânico Punk Esports + mouse para jogos Um item obrigatório para os jogadores -H7", "preco": 52.49, "preco_original": 201.88, "desconto": 74, "imagem": "https://cf.shopee.com.br/file/br-11134207-820m5-mu8ogr0lpfk218", "nota": 4.8, "vendas": 214, "link": "https://s.shopee.com.br/1LhQDCTk0I", "categoria": "teclado mecanico"}, {"nome": "Carregador rápido de 120W com 6A USB C cabo 1M para Mi Turbo Charge Turbo Power Cabo USB + Cabo Tipo C", "preco": 15.89, "preco_original": 61.12, "desconto": 74, "imagem": "https://cf.shopee.com.br/file/sg-11134201-823qk-moi4apd18efh61", "nota": 4.6, "vendas": 3532, "link": "https://s.shopee.com.br/W8JDfBKNI", "categoria": "carregador turbo"}, {"nome": "Câmera Segurança Lâmpada Wifi Full HD Sem Fio 360 Icsee/Yoosee Visão Noturna 8177 EKS", "preco": 58.99, "preco_original": null, "desconto": 0, "imagem": "https://cf.shopee.com.br/file/sg-11134201-8227r-mhhsrii405j733", "nota": 4.9, "vendas": 4406, "link": "https://s.shopee.com.br/3VluJvtBBx", "categoria": "camera wifi"}, {"nome": "Kit Carregador 67W Turbo + Cabo Tipo-C Carga Rápida Universal Xiaomi Redmi Note E Poco X7 Android", "preco": 29.51, "preco_original": null, "desconto": 0, "imagem": "https://cf.shopee.com.br/file/sg-11134201-8258n-mr8vmek85csha1", "nota": 4.5, "vendas": 9310, "link": "https://s.shopee.com.br/2BGWjTgaWK", "categoria": "carregador turbo"}, {"nome": "Senbenbao X55 Fones De Ouvido TWS Sono Sem Fio Bluetooth Display Led Alta Fidelidade Estéreo Cancelamento Ruído À Prova", "preco": 19.29, "preco_original": null, "desconto": 0, "imagem": "https://cf.shopee.com.br/file/sg-11134201-823ob-mp7wv1fcnx8rc4", "nota": 4.8, "vendas": 19272, "link": "https://s.shopee.com.br/20x6XAPYUt", "categoria": "fone bluetooth"}, {"nome": "Teclado Mecânico Gamer Compacto 60% 63 Teclas Switch Blue Rainbow RGB Anti-Ghosting USB", "preco": 99.88, "preco_original": 369.93, "desconto": 73, "imagem": "https://cf.shopee.com.br/file/br-11134207-820lv-mr1pu215296u72", "nota": 4.9, "vendas": 306, "link": "https://s.shopee.com.br/1W0pDmATzl", "categoria": "teclado mecanico"}, {"nome": "HUAWEI WiFi AX2S | Roteador | WS7000 V2 |  Dual Band | 4 Antenas | 5 GHz Wi-Fi 6", "preco": 129.0, "preco_original": 496.15, "desconto": 74, "imagem": "https://cf.shopee.com.br/file/br-11134207-81z1k-me9rity3qqkg1d", "nota": 5.0, "vendas": 1856, "link": "https://s.shopee.com.br/9fMWwmNNjs", "categoria": "roteador wifi"}, {"nome": "Mouse Gamer Jogos Laser 3600dpi Usb Com Fio Led 7 Botões Iluminado", "preco": 16.88, "preco_original": 99.29, "desconto": 83, "imagem": "https://cf.shopee.com.br/file/br-11134207-7r98o-lwoh850dygu797", "nota": 4.8, "vendas": 596, "link": "https://s.shopee.com.br/9AQGLr8AS2", "categoria": "mouse gamer"}, {"nome": "Medidor de SpO2 Portátil para Dedo com Tela LED, Alta Precisão para Monitoramento de Saúde em Casa e Viagem", "preco": 18.89, "preco_original": 42.93, "desconto": 56, "imagem": "https://cf.shopee.com.br/file/sg-11134201-823qv-mooxmpkz30gb81", "nota": 4.7, "vendas": 81, "link": "https://s.shopee.com.br/9V36OON8Xa", "categoria": "monitor portatil"}, {"nome": "Fone Headset Gamer RGB PRO Iluminação LED, Microfone Ajustável, Ideal para Jogos Online", "preco": 79.98, "preco_original": 186.0, "desconto": 57, "imagem": "https://cf.shopee.com.br/file/br-11134207-81z1k-mfczkewm85j991", "nota": 4.9, "vendas": 531, "link": "https://s.shopee.com.br/5Au7EQLtgK", "categoria": "headset gamer"}, {"nome": "Bluetooth Sem fio Fone de ouvido Ergonômico TWS Suporte Orelha Pendurada Anti-queda", "preco": 24.3, "preco_original": 81.0, "desconto": 70, "imagem": "https://cf.shopee.com.br/file/sg-11134201-7rdx3-mch5g12mgnkkac", "nota": 4.7, "vendas": 3047, "link": "https://s.shopee.com.br/50ah27509J", "categoria": "fone bluetooth"}, {"nome": "Smartwatch D20 - Relógio Inteligente y68 Esportivo Bluetooth Android/iOS - Com foto Na Tela", "preco": 19.99, "preco_original": null, "desconto": 0, "imagem": "https://cf.shopee.com.br/file/sg-11134201-7rffv-m43cb4hjqxjrce", "nota": 4.6, "vendas": 4726, "link": "https://s.shopee.com.br/5LDWzOAnYT", "categoria": "smartwatch"}, {"nome": "Carregador iPhone Turbo Tipo-C 20W + Cabo Lightining para IPhone Carga rápida", "preco": 15.99, "preco_original": 49.97, "desconto": 68, "imagem": "https://cf.shopee.com.br/file/sg-11134201-7rbkw-lpcg9rytbas79a", "nota": 4.8, "vendas": 10578, "link": "https://s.shopee.com.br/6q2Km8rXqG", "categoria": "carregador turbo"}, {"nome": "Fone de Ouvido Sem Fio Bluetooth com Condução Óssea/Compacto e Leve/Resistente a Água/Tipo-C", "preco": 31.9, "preco_original": 110.0, "desconto": 71, "imagem": "https://cf.shopee.com.br/file/br-11134211-820ln-mseaww44b5dz4b", "nota": 4.6, "vendas": 3367, "link": "https://s.shopee.com.br/8VAYlCU0uN", "categoria": "fone bluetooth"}, {"nome": "Câmera Vigilância WiFi 4MP Dupla Lente Detecção Inteligente Áudio 2 Vias", "preco": 125.39, "preco_original": 298.55, "desconto": 58, "imagem": "https://cf.shopee.com.br/file/sg-11134201-822zw-mi0cmfoz1p1k70", "nota": 4.9, "vendas": 1412, "link": "https://s.shopee.com.br/7pur5nBt47", "categoria": "camera wifi"}, {"nome": "50M 1080P Sem Fio HDMI Extensor Transmissor De Vídeo Receptor 1TX A 1RX Display Para PS4 Câmera Portátil PC TV Monitor P", "preco": 186.99, "preco_original": 519.42, "desconto": 64, "imagem": "https://cf.shopee.com.br/file/sg-11134201-825ah-mqh2txikvpqme5", "nota": 4.9, "vendas": 163, "link": "https://s.shopee.com.br/6L63J20Tob", "categoria": "monitor portatil"}, {"nome": "Fone De Ouvido Inpods 13 Bluetooth Sem Fio Com Microfone Fones esportivos Adequado Branco", "preco": 19.98, "preco_original": 68.9, "desconto": 71, "imagem": "https://cf.shopee.com.br/file/sg-11134201-825bb-mt7fxycgurra13", "nota": 4.7, "vendas": 7637, "link": "https://s.shopee.com.br/9pfvTSZTW4", "categoria": "fone bluetooth"}, {"nome": "JL PROTEC 4K 8MP Câmera de Segurança 2 Lentes Com Audio e Microfone Câmera 355 Graus Wifi", "preco": 176.88, "preco_original": 402.0, "desconto": 56, "imagem": "https://cf.shopee.com.br/file/br-11134201-81ztc-mj6htjflukg333", "nota": 4.9, "vendas": 1524, "link": "https://s.shopee.com.br/2VtKBa19JA", "categoria": "camera wifi"}, {"nome": "Suporte Gamer Porta Controle Videogame Para Ps4 Xbox Ps5 Fone de Ouvido Headset", "preco": 9.89, "preco_original": 24.73, "desconto": 60, "imagem": "https://cf.shopee.com.br/file/br-11134207-820ll-mlveq5qwu39je0", "nota": 4.5, "vendas": 959, "link": "https://s.shopee.com.br/3LSRB6gNUx", "categoria": "headset gamer"}, {"nome": "Fone De Ouvido Bluetooth Orelha Gatinho Infantil Led Sem Fio", "preco": 27.5, "preco_original": 98.21, "desconto": 72, "imagem": "https://cf.shopee.com.br/file/sg-11134201-820nh-mnq01ce18zr689", "nota": 4.9, "vendas": 5819, "link": "https://s.shopee.com.br/W8Fntdxsf", "categoria": "fone bluetooth"}, {"nome": "Smartwatch 7 Em 1 Alças 49mm Full Touch Screen Sport", "preco": 59.0, "preco_original": 203.45, "desconto": 71, "imagem": "https://cf.shopee.com.br/file/sg-11134201-825zv-ml16vfpvksg5ae", "nota": 4.8, "vendas": 1126, "link": "https://s.shopee.com.br/20x3Czjwhw", "categoria": "smartwatch"}, {"nome": "Mini Teclado Mecânico Anti-Ansiedade em Chaveiro com 4 Teclas Clicáveis – Som Tátil Relaxante", "preco": 11.99, "preco_original": 44.41, "desconto": 73, "imagem": "https://cf.shopee.com.br/file/br-11134207-820m0-mpz8z4g03vuo16", "nota": 4.8, "vendas": 324, "link": "https://s.shopee.com.br/906nXr1hKm", "categoria": "teclado mecanico"}, {"nome": "Fones de Ouvido Bluetooth 5.4 X55 com Visor LED, Hi-Fi Estéreo, Cancelamento de Ruído, Design à Prova d’Água para Graves", "preco": 23.98, "preco_original": 88.81, "desconto": 73, "imagem": "https://cf.shopee.com.br/file/sg-11134201-825a9-mu36trol6akg59", "nota": 4.7, "vendas": 3069, "link": "https://s.shopee.com.br/40i7af7bOE", "categoria": "fone bluetooth"}, {"nome": "Case Gaveta HD SSD 2.5 Sata III USB 3.0 Transparente Externo 6Gbps PC Notebook PS4 Kit 2  su", "preco": 30.99, "preco_original": 99.97, "desconto": 69, "imagem": "https://cf.shopee.com.br/file/sg-11134201-822x7-mhwbric3x4hw69", "nota": 4.9, "vendas": 376, "link": "https://s.shopee.com.br/8Kr65RWREx", "categoria": "ssd"}, {"nome": "Teclado Gamer Semi-mecânico Rgb Anti-ghosting", "preco": 38.88, "preco_original": 149.54, "desconto": 74, "imagem": "https://cf.shopee.com.br/file/br-11134207-7r98o-mcw6gui5vk1e01", "nota": 4.8, "vendas": 962, "link": "https://s.shopee.com.br/8AXft8FxIb", "categoria": "teclado mecanico"}, {"nome": "Fone Pro Sem Fio Som HiFi 8D Pop-Up Automático Toque Inteligente Bateria 5–7h Bluetooth Universal", "preco": 17.99, "preco_original": 69.19, "desconto": 74, "imagem": "https://cf.shopee.com.br/file/sg-11134201-8261z-ml25b72c1ds21d", "nota": 4.8, "vendas": 6974, "link": "https://s.shopee.com.br/gRexLQlr7", "categoria": "fone bluetooth"}, {"nome": "15,6\" portátil Monitor de FHD 1920*1080P IPS 300Nits HDR para jogos compatível com PC/PS3/4/5/Switch/Xbox/Laptop/Celular", "preco": 382.35, "preco_original": 1006.18, "desconto": 62, "imagem": "https://cf.shopee.com.br/file/br-11134207-820lj-mt9fzhlxl2bm30", "nota": 4.8, "vendas": 158, "link": "https://s.shopee.com.br/8AXfXqlb8X", "categoria": "monitor portatil"}, {"nome": "Smartwatch MINI 38MM PRO Com monitor De Frequência Cardíaca Do Computador São Paulo pronta entrega", "preco": 53.99, "preco_original": 199.96, "desconto": 73, "imagem": "https://cf.shopee.com.br/file/br-11134207-81z1k-mg4sqr0e5nggcd", "nota": 4.8, "vendas": 1671, "link": "https://s.shopee.com.br/7fbOwvVplX", "categoria": "smartwatch"}, {"nome": "Headset Gamer Camuflado Com Fio Estéreo Microfone USB P2 50mm Para PC PS4 Xbox-Onistek", "preco": 74.99, "preco_original": 288.42, "desconto": 74, "imagem": "https://cf.shopee.com.br/file/br-11134207-820m3-mrvxqm20m9z828", "nota": 4.9, "vendas": 667, "link": "https://s.shopee.com.br/3LSPmxUfAm", "categoria": "headset gamer"}, {"nome": "Câmera Externa Ip a Prova D'água 4mp wifi ptz com Infravermelho lente dupla Bivolt 110/220V WiFi 360 -G1", "preco": 129.99, "preco_original": 406.22, "desconto": 68, "imagem": "https://cf.shopee.com.br/file/br-11134207-820lk-mtev0n6q7k75f5", "nota": 4.9, "vendas": 302, "link": "https://s.shopee.com.br/Lonrjvy7L", "categoria": "camera wifi"}, {"nome": "Headset Gamer 7.1 Surround Rgb Delta-f7140 Com Microfone Para Pc E Console", "preco": 54.78, "preco_original": 210.69, "desconto": 74, "imagem": "https://cf.shopee.com.br/file/br-11134207-820lk-moa3sgm6molj9c", "nota": 4.9, "vendas": 745, "link": "https://s.shopee.com.br/9KjcaHAREa", "categoria": "headset gamer"}, {"nome": "Fone de Ouvido Sem Fio Airpods PRO 3 Com Cancelamento De Ruído Bluetooth Pop-Up para iOS e Android", "preco": 42.98, "preco_original": 171.92, "desconto": 75, "imagem": "https://cf.shopee.com.br/file/sg-11134201-7rd3v-m70zchxbcirf93", "nota": 4.7, "vendas": 5183, "link": "https://s.shopee.com.br/7KyYCb0WPt", "categoria": "fone bluetooth"}];
 const brl=v=>v.toLocaleString('pt-BR',{style:'currency',currency:'BRL'});
 const esc=s=>String(s??'').replace(/[&<>"]/g,c=>({'&':'&amp;','<':'&lt;','>':'&gt;','"':'&quot;'}[c]));
 let cat='Todas';
